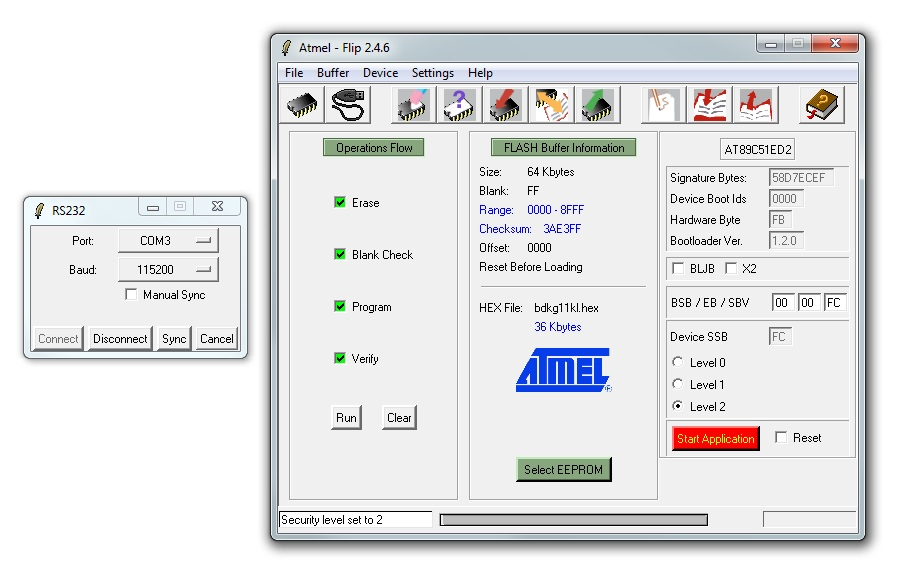
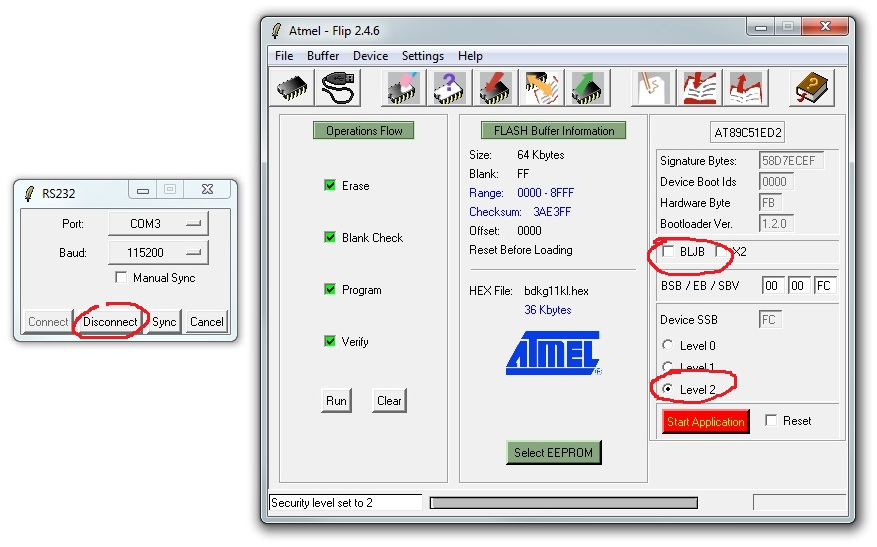
work 152

diff --git a/srk2327/portal.html b/srk2327/portal.html
@@ -27,7 +27,7 @@
 
 <div>
     <h1>Портальный монитор</h1>
-<img src="../imgs/portal/fura.png" width="600">
+    <img src="../imgs/portal/fura.png" width="600">
 
 
     <ul>
@@ -37,7 +37,6 @@
                     <summary>Настроить пульт ПУ-АТ900</summary>
 
 
-
                 </details>
             </div>
         </li>
@@ -45,20 +44,41 @@
             <div>
                 <details>
                     <summary>Настройка БДКГ-11/1</summary>
+
                     Взять настроенные и прошедшие <span class="line_through">все муки ада</span> линейку БДКГ-11/1
                     Прошить контейнерной прошивкой. Но чтобы его прошить, сначала нужно разблокировать загрузчик.
                     <!--Чтобы прошить уже прошитый прибор, его перво-наперво необходимо разблокировать:-->
 
                     <ul>
-                        <li>Запустить терминал, нажать </li>
+                        <li>Подключить БДКГ-11/1 к компьютеру с помощью USB-адаптера. <span class="attention">Линия
+                            обмена подключается крест-накрест &mdash; желтый провод подключается к зеленому,
+                            зеленый к желтому</span> </li>
+                        <img src="../imgs/portal/g-11/08.jpg" width="350" style="float: left">
+                        <img src="../imgs/portal/g-11/09.jpg" width="500">
+                        <li>Запустить терминал, нажать "Настройка". Если ответ совпал с запросом, значит Terminal видит
+                            блок, можно работать</li>
+                        <img src="../imgs/portal/g-11/02.jpg" width="450">
+                        <li>Нажать "Внутрисхемный загрузчик". Если ответ совпал с командой, значит БД разблокирован,
+                            можно шить. <span class="attention">Если отключить питания &mdash; загрузчик опять
+                                заблокируется</span></li>
+                        <li>Чтобы освободить порт, необходимо закрыть Terminal, либо в выпадающем меню портов выбрать
+                            "Off" (так удобнее, если прошивается несколько БД)</li>
+                        <img src="../imgs/portal/g-11/03.jpg" width="450">
+                        <li>Запустить Flip</li>
+                        <li>Выбрать тип контроллера, нажать соединение, выбрав RS232</li>
+                        <img src="../imgs/portal/g-11/04.jpg" width="650">
+                        <li>Выбрать порт, скорость 115200, нажать "Connect"</li>
+                        <li>Выбрать прошивку <span class="attention">bdkg11rl.hex</span>, нажать "Run"</li>
+                        <img src="../imgs/portal/g-11/05.jpg" width="650">
+                        <li>После окончания процесса прошивки снять флаг "BLJB", поставить "Level 2"</li>
+                        <img src="../imgs/portal/g-11/06.jpg" width="650">
+                        <li>БД прошит. Нажать "Disconnect"</li>
+
+
                     </ul>
-<img src="../imgs/portal/g-11/02.jpg" width="450">
-<img src="../imgs/portal/g-11/03.jpg" width="450">
-<img src="../imgs/portal/g-11/04.jpg">
-<img src="../imgs/portal/g-11/05.jpg">
-<img src="../imgs/portal/g-11/06.jpg">
-<img src="../imgs/portal/g-11/07.jpg" width="800">
-<img src="../imgs/portal/g-11/01.jpg">
+
+                    <img src="../imgs/portal/g-11/07.jpg" width="800">
+                    <img src="../imgs/portal/g-11/01.jpg">
 
 
                 </details>
@@ -68,7 +88,6 @@
             <div>
                 <details>
                     <summary>Настройка БДКГ-35</summary>
-
 
 
                 </details>

diff --git a/srk2327/2327.html b/srk2327/2327.html
@@ -115,6 +115,9 @@
 
     <p>Получить на складе и отдать на монтаж
 
+    <h3>Как самому сделать адаптер</h3>
+
+    <img src="../imgs/2327/adapter_razyem.jpg" width="600">
 
     <h3>Названия деталей (мониторить остаток на складе!)</h3>
 

diff --git a/style.css b/style.css
@@ -79,6 +79,8 @@ img {
 
 .line_through {
     text-decoration: line-through;
+    color: gray;
+
 }
 
 .butt_in_text {
